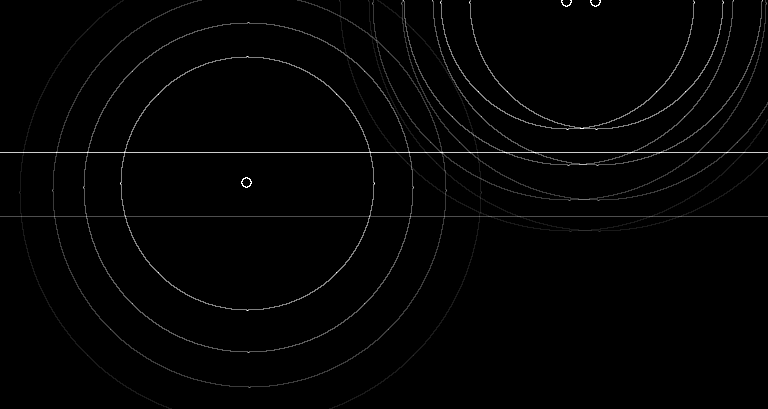
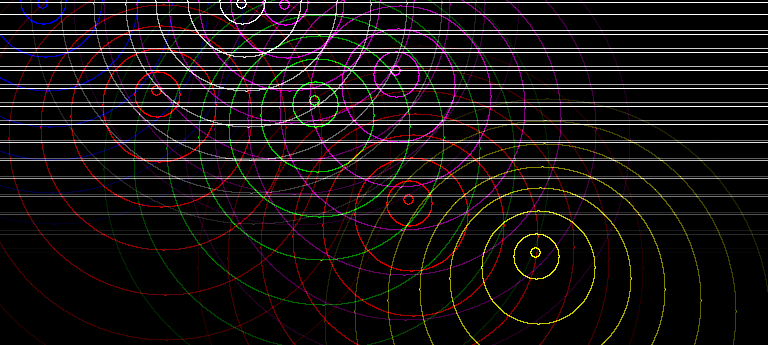
coloring the circles

diff --git a/objects.h b/objects.h
@@ -81,8 +81,13 @@ public:
 
     Life(): health(10.0), velocity(10,10), angle(10), circle(10,10,5) {
         lastWave = std::chrono::high_resolution_clock::now();
-        color.r = color.g = color.b = 255;
+        color.r = rand()%2 ? 255: 0;
+        color.g = rand()%2 ? 255: 0;
+        color.b = rand()%2 ? 255: 0;
         color.a = SDL_ALPHA_OPAQUE;
+        if( !(color.r | color.g | color.b) ){
+            color.r = color.g = color.b = 255;
+        }
         circle.center.x = rand()%700; // TODO: fix this
         circle.center.y = rand()%700;
     }
